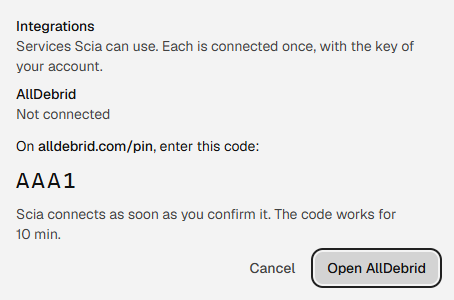
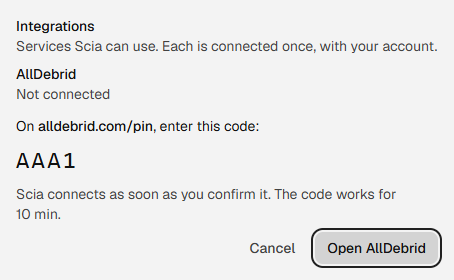
fix: hold the leaving of a code by specs, and say what round 2 changed

diff --git a/apps/renderer/src/features/settings/integrations.test.tsx b/apps/renderer/src/features/settings/integrations.test.tsx
@@ -985,29 +985,48 @@ describe('IntegrationsSection', () => {
       });
     });
 
-    it('takes back the sentence of a page not opened once the code no longer connects', async () => {
-      const user = setUp();
-      withMain();
-      openCodePage.mockRejectedValue(new Error('no code'));
-      listing([notConnected]);
-      vi.spyOn(api, 'startIntegrationCode').mockResolvedValue(given);
-      vi.spyOn(api, 'integrationCode').mockRejectedValue(
-        new ApiError(404, ApiErrorCode.NotFound, 'No code was given.'),
-      );
-      render(<IntegrationsSection open onError={ignore} />);
-      const service = await theService();
-      await user.click(service.getByRole('button', { name: 'Connect with a code' }));
-      await user.click(await service.findByRole('button', { name: 'Open AllDebrid' }));
-      expect(await service.findByRole('alert')).toHaveTextContent('Scia could not open the page.');
-
-      await nextReading();
-
-      await vi.waitFor(() => {
-        expect(service.getByRole('alert')).toHaveTextContent(
-          'This code is no longer valid. Get a new one.',
+    for (const [what, reading] of [
+      [
+        'it expired',
+        () =>
+          vi.spyOn(api, 'integrationCode').mockResolvedValue({
+            ...given,
+            status: 'failed',
+            failure: 'CODE_EXPIRED',
+          }),
+      ],
+      [
+        'the engine no longer knows it',
+        () =>
+          vi
+            .spyOn(api, 'integrationCode')
+            .mockRejectedValue(new ApiError(404, ApiErrorCode.NotFound, 'No code was given.')),
+      ],
+    ] as const) {
+      it(`takes back the sentence of a page not opened once ${what}`, async () => {
+        const user = setUp();
+        withMain();
+        openCodePage.mockRejectedValue(new Error('no code'));
+        listing([notConnected]);
+        vi.spyOn(api, 'startIntegrationCode').mockResolvedValue(given);
+        reading();
+        render(<IntegrationsSection open onError={ignore} />);
+        const service = await theService();
+        await user.click(service.getByRole('button', { name: 'Connect with a code' }));
+        await user.click(await service.findByRole('button', { name: 'Open AllDebrid' }));
+        expect(await service.findByRole('alert')).toHaveTextContent(
+          'Scia could not open the page.',
         );
+
+        await nextReading();
+
+        await vi.waitFor(() => {
+          expect(service.getByRole('alert')).toHaveTextContent(
+            'This code is no longer valid. Get a new one.',
+          );
+        });
       });
-    });
+    }
 
     it('gives the focus to Cancel, which says the code, where nobody can open the page', async () => {
       const user = setUp();
@@ -1021,6 +1040,72 @@ describe('IntegrationsSection', () => {
       const cancel = await service.findByRole('button', { name: 'Cancel' });
       expect(cancel).toHaveFocus();
       expect(cancel).toHaveAccessibleDescription('On alldebrid.com/pin, enter this code: ABCD');
+    });
+
+    it('says nothing of an ask the person left that then fails', async () => {
+      listing([notConnected]);
+      let refuse: (error: unknown) => void = () => undefined;
+      vi.spyOn(api, 'startIntegrationCode').mockImplementation(
+        () =>
+          new Promise((_resolve, reject) => {
+            refuse = reject;
+          }),
+      );
+      vi.spyOn(api, 'cancelIntegrationCode').mockResolvedValue();
+      render(<IntegrationsSection open onError={ignore} />);
+      const service = await theService();
+      await userEvent.click(service.getByRole('button', { name: 'Connect with a code' }));
+      await userEvent.click(service.getByRole('button', { name: 'Use an API key' }));
+
+      await act(async () => {
+        refuse(new ApiError(409, ApiErrorCode.Conflict, 'The wait for this code was ended.'));
+        await Promise.resolve();
+      });
+
+      expect(service.queryByRole('alert')).not.toBeInTheDocument();
+    });
+
+    it('keeps saying a code is coming when an ask the person left ends after a new one began', async () => {
+      listing([notConnected]);
+      const answers: ((code: IntegrationCode) => void)[] = [];
+      vi.spyOn(api, 'startIntegrationCode').mockImplementation(
+        () =>
+          new Promise((resolve) => {
+            answers.push(resolve);
+          }),
+      );
+      vi.spyOn(api, 'cancelIntegrationCode').mockResolvedValue();
+      render(<IntegrationsSection open onError={ignore} />);
+      const service = await theService();
+      await userEvent.click(service.getByRole('button', { name: 'Connect with a code' }));
+      await userEvent.click(service.getByRole('button', { name: 'Use an API key' }));
+      await userEvent.click(service.getByRole('button', { name: 'Cancel' }));
+      await userEvent.click(service.getByRole('button', { name: 'Connect with a code' }));
+
+      await act(async () => {
+        answers[0]?.(given);
+        await Promise.resolve();
+      });
+
+      expect(service.getByRole('button', { name: 'Getting a code…' })).toHaveAttribute(
+        'aria-disabled',
+        'true',
+      );
+    });
+
+    it('says a code works for a minute at least, when it has less left', async () => {
+      const user = setUp();
+      listing([notConnected]);
+      vi.spyOn(api, 'startIntegrationCode').mockResolvedValue({
+        ...given,
+        expiresAt: new Date(Date.now() + 20_000).toISOString(),
+      });
+      render(<IntegrationsSection open onError={ignore} />);
+      const service = await theService();
+
+      await user.click(service.getByRole('button', { name: 'Connect with a code' }));
+
+      expect(await service.findByText(/The code works for 1\smin\.$/)).toBeInTheDocument();
     });
 
     it('says how long each new code works, not the first one', async () => {

diff --git a/apps/server/src/integrations.int.test.ts b/apps/server/src/integrations.int.test.ts
@@ -537,10 +537,12 @@ describe('Integrations', () => {
     it('waits only for the last of two codes asked for together: the first is given up', async () => {
       const integrations = await open();
 
-      const first = integrations.startCode(IntegrationId.AllDebrid);
+      const first = integrations
+        .startCode(IntegrationId.AllDebrid)
+        .catch((error: unknown) => error);
       const second = await integrations.startCode(IntegrationId.AllDebrid);
 
-      await expect(first).rejects.toBeInstanceOf(CodeConflictError);
+      expect(await first).toBeInstanceOf(CodeConflictError);
       expect(service.requests.filter((request) => request.url === '/v4.1/pin/get')).toHaveLength(2);
       await until(() => checksOf(lastCheck()).length >= 2);
       expect(integrations.code(IntegrationId.AllDebrid)?.code).toBe(second.code);
@@ -580,6 +582,40 @@ describe('Integrations', () => {
       expect(await integrations.list()).toEqual([
         { id: 'alldebrid', connected: true, account: ada, failure: null },
       ]);
+    });
+
+    it('connects nothing for a code whose wait ended while its key waited its turn', async () => {
+      const kept = new MemoryVault();
+      let release = () => undefined as unknown;
+      // A disconnection whose system is slow: the changes after it wait their turn.
+      const slow: KeyVault = {
+        read: (name) => kept.read(name),
+        write: (name, key) => kept.write(name, key),
+        remove: (name) =>
+          new Promise((done) => {
+            release = () => {
+              done(kept.remove(name));
+            };
+          }),
+      };
+      const integrations = await open(slow);
+      const { code } = await integrations.startCode(IntegrationId.AllDebrid);
+      const busy = integrations.disconnect(IntegrationId.AllDebrid);
+      service.confirmCode(code, KEY);
+      await until(() => service.keysGiven > 0);
+      // The answer with the key reaches the engine, which then waits behind the disconnection.
+      await until(() => service.requests.at(-1)?.url === '/v4/pin/check');
+
+      integrations.cancelCode(IntegrationId.AllDebrid);
+      release();
+      await busy;
+      // A key the service refuses, sent after: once it is answered, what waited before it has run.
+      await expect(
+        integrations.connect(IntegrationId.AllDebrid, 'nobody-key-00000000000000'),
+      ).rejects.toBeInstanceOf(ServiceError);
+
+      expect(await kept.read(IntegrationId.AllDebrid)).toBeUndefined();
+      expect(await integrations.list()).toEqual([notConnected]);
     });
 
     it('gives no code while a service is connected: a confirmed code would replace its key', async () => {

diff --git a/apps/renderer/src/lib/messages.ts b/apps/renderer/src/lib/messages.ts
@@ -55,6 +55,9 @@ export function connectFailureMessage(error: unknown, id: IntegrationId): string
 
 // Said when Settings asked for a code to confirm on the service's site and got none.
 const CODE_NOT_GIVEN: Readonly<Record<string, (service: string) => string>> = {
+  // A service connected meanwhile, or another code asked for: whatever it was, none came.
+  [ApiErrorCode.Conflict]: (service) =>
+    `Scia could not get a code from ${service}. Try again in a moment.`,
   // Not answering, under maintenance, or answering what Scia does not understand.
   [ApiErrorCode.Unavailable]: (service) =>
     `Scia could not get a code from ${service}. Try again in a moment.`,
@@ -72,7 +75,7 @@ const CODE_FAILED: Readonly<Record<IntegrationCodeFailure, (service: string) => 
   // Its time ran out, or the service, or the engine, no longer knows it.
   [IntegrationCodeFailure.Expired]: () => 'This code is no longer valid. Get a new one.',
   [IntegrationCodeFailure.KeyRefused]: (service) =>
-    `${service} did not accept the key it gave for this code. Get a new code, then try again.`,
+    `${service} did not accept the key it gave for this code. Get a new code.`,
   [IntegrationCodeFailure.KeyBlocked]: (service) =>
     `${service} is blocking the key from here. If ${service} emailed you about a new sign-in, confirm it; otherwise check your network. Then get a new code.`,
   [IntegrationCodeFailure.AccountBanned]: (service) => `${service} says this account is banned.`,
@@ -81,7 +84,7 @@ const CODE_FAILED: Readonly<Record<IntegrationCodeFailure, (service: string) => 
   // The account could not be asked about once the code was confirmed, or something Scia does
   // not understand: what is true of all of them is that nothing was connected.
   [IntegrationCodeFailure.Unavailable]: (service) =>
-    `Scia could not finish connecting with ${service}. Get a new code, then try again.`,
+    `Scia could not finish connecting with ${service}. Get a new code.`,
   [IntegrationCodeFailure.KeyNotKept]: () =>
     'Scia could not keep the key safely on this computer. Nothing was connected.',
 };

diff --git a/apps/server/src/testing/alldebrid-server.ts b/apps/server/src/testing/alldebrid-server.ts
@@ -135,6 +135,8 @@ export interface AllDebridServer {
   misbehave(how: Misbehaviour | undefined): void;
   // What the person does on the service's site: the code is confirmed, and gives this key.
   confirmCode(code: string, apiKey: string): void;
+  // How many times it has answered a confirmed code with its key.
+  readonly keysGiven: number;
   close(): Promise<void>;
 }
 
@@ -206,6 +208,7 @@ export async function startAllDebridServer(
   const preparing = new Map<number, { left: number; readonly link: UnlockableLink }>();
   // The codes given, by the check that goes with each.
   const codes = new Map<string, GivenCode>();
+  let keysGiven = 0;
 
   function misbehaves(response: ServerResponse): boolean {
     if (misbehaviour === undefined) return false;
@@ -340,6 +343,7 @@ export async function startAllDebridServer(
       refuse(response, 200, 'PIN_EXPIRED');
       return;
     }
+    if (given.apiKey !== undefined) keysGiven += 1;
     succeed(
       response,
       given.apiKey === undefined
@@ -413,6 +417,9 @@ export async function startAllDebridServer(
     misbehave: (how) => {
       misbehaviour = how;
       misbehaved = 0;
+    },
+    get keysGiven() {
+      return keysGiven;
     },
     confirmCode: (code, apiKey) => {
       const given = [...codes.values()].find((each) => each.pin === code);

diff --git a/apps/renderer/src/features/settings/integrations.tsx b/apps/renderer/src/features/settings/integrations.tsx
@@ -62,7 +62,7 @@ export function IntegrationsSection({ open, onError }: IntegrationsSectionProps)
           Integrations
         </h3>
         <p className="text-sm text-muted-foreground">
-          Services Scia can use. Each is connected once, with the key of your account.
+          Services Scia can use. Each is connected once, with your account.
         </p>
       </div>
       <ul className="flex flex-col gap-2">

diff --git a/.claude/gotchas.md b/.claude/gotchas.md
@@ -44,13 +44,13 @@ Read the groups your change touches before a push. Add a `→` entry in the same
 
 - → A bound in a timing spec is set against what the code does without the thing held, not against what it does with it: "a pause under a limit takes less than a second" passed with the wait deaf to the pause, because one read at the floor is a second and the unguarded pause took 980 ms. Make what is owed several times the bound, and see the spec fail with the guard taken out (#44).
 - → A spec written after its code is seen failing by taking the code's line away, one at a time — also the ones that "obviously" hold: a read made "when the engine is reached, and again when it comes back" stayed green with the read made at mount only, because the spec's connection never changed (#44; #51, again). A spec whose comment names two things has a case that fails for each: "emoji where the beginning is cut, and where the end that is kept begins" held the beginning only, because in every name ten units from the end fell between two characters (#51, a third time). A guard reached from several places is taken away at each of them: the late read of Settings was held at the opening and at a change, and not after a folder was chosen, where every spec stayed green without it (#52). #131 again: the busy flag of the clipboard's reading was cleared after a read and at a turn off, and only the first had a spec.
-- → A list of lines taken away names the lines, and a line no road of the specs reaches is not among the "caught": the plan said "each of the service's codes unmapped" and "the account asked at every listing", and two of those lines could be deleted with every spec green — a code the simulated service is never made to answer, and a line only an engine that read its key from the vault runs. Take the line away on each road that reaches it; a line no road reaches is taken out of the code (#53: the slips of #32 and #44, both again; #65 again). #86 again: "every line that decides something" was claimed of an encoder where the directory's height byte, the planes, the mask's byte and the rule "a bitmap below 256" could each go with every spec green. Take them away with a script that removes one line, runs the specs and puts it back, and count from what it printed. #100 again: the author's script took away what was easy to name, and the tech lead's found the two lines that keep yt-dlp from going back to an older signed build — "newer than the one in use", and a date read only from what the signature covers — each removable with every spec green. A guard's mutant is the attack it stops, not its deletion: `!==` for "newer", the unsigned part read for the date. And a fix in an adapter is taken away where it is used too: `main.ts` calling the old `open` kept 393 specs green.
+- → A list of lines taken away names the lines, and a line no road of the specs reaches is not among the "caught": the plan said "each of the service's codes unmapped" and "the account asked at every listing", and two of those lines could be deleted with every spec green — a code the simulated service is never made to answer, and a line only an engine that read its key from the vault runs. Take the line away on each road that reaches it; a line no road reaches is taken out of the code (#53: the slips of #32 and #44, both again; #65 again). #86 again: "every line that decides something" was claimed of an encoder where the directory's height byte, the planes, the mask's byte and the rule "a bitmap below 256" could each go with every spec green. Take them away with a script that removes one line, runs the specs and puts it back, and count from what it printed. #100 again: the author's script took away what was easy to name, and the tech lead's found the two lines that keep yt-dlp from going back to an older signed build — "newer than the one in use", and a date read only from what the signature covers — each removable with every spec green. A guard's mutant is the attack it stops, not its deletion: `!==` for "newer", the unsigned part read for the date. And a fix in an adapter is taken away where it is used too: `main.ts` calling the old `open` kept 393 specs green. #136 again: a code's cancel at a disconnection was taken out as "no road reaches it" because the page offers none — and the API did (`POST /code` while connected, then `DELETE`). A road is any caller of the route, not the one screen; the fix there was to close the road (a code is refused while a service is connected), not to trust that nobody takes it.
 - → The numbers of a run are read from that run's record, and a body that tells of several runs says which run each number belongs to: "two requests in the whole run" was the count of the last run, beside sentences from an earlier one that had made four (#53: #44 again).
 - → A number in a spec's comment, and in the PR body that quotes it, is counted from the run, not from the setting: eight connections were configured, and a file of four megabytes made four (#44).
 
 - → Two asks of the same thing answer in the order they like. Settings read the engine at every opening and kept whatever came back: a change made while that read was on its way was undone on screen when the read answered after it — the page went back to the theme of before, with the engine keeping the new one. No person is that fast; a harness on a window the system had put in the background was. An answer is kept only when nothing was asked after it, and the spec holds the late answer back by hand (#52).
 
-- → A way back is not offered beside something that cannot be taken back: "Cancel" stayed pressable while a key was being checked, the key was kept all the same, and a refusal that came back was drawn under a row with no field (#53). Try every control of a form while its request is on its way.
+- → A way back is not offered beside something that cannot be taken back: "Cancel" stayed pressable while a key was being checked, the key was kept all the same, and a refusal that came back was drawn under a row with no field (#53). Try every control of a form while its request is on its way. #136 again: a code asked for kept coming after Cancel, after "Use an API key" and after Settings closed, replaced the key's field, and was waited for ten minutes by an engine whose cancel had arrived before the code existed — on the page and in the engine. Every ask carries its turn; what answers an ask that is no longer the last is dropped, and told to forget what it brought.
 
 - → Whether to hand on a focus is decided when the control leaves, from where the focus is then, never from a flag set at the press: "Start all" set one at its press and kept it through a refused request, or a new ready row arriving with it, and a later, unrelated leave pulled the focus from a row's own button to the filters (#131).
 - → A reading that marks a baseline — "what was there when it started" — is tried with that reading refused, answered empty, and answered late by a turn before an off and on. The clipboard's reading took a link copied before the switch was turned on in all three ways, with every spec green; and Electron 44 answers `''`, not a rejection, for a clipboard it cannot open (#131). The baseline belongs to its turn, and nothing is offered until a read of that turn has found it.
@@ -80,7 +80,7 @@ Read the groups your change touches before a push. Add a `→` entry in the same
 - → A list of values is tried at both ends, and over the transport people use. Every run of the speed limit sat between 256 KB/s and 2 MB/s, over plain http; at 25 MB/s a read's turn is two milliseconds, a timer under sixteen takes sixteen on Windows, and a wait that ended late was lost for good: a download got a third of its limit, on every head of the PR, and less over HTTPS, where a read is a quarter the size — until the third round measured it (#44).
 - → A guard that is taken away is searched for everything else it was guarding. The idle timer that left the socket was also what ended a redirect's drain and an answer nobody read (#44).
 - → A word from outside is not looked up in a plain object: `FAILURE_OF[code]` found `constructor` and `toString`, which every object has, and a service's code of that name became a refusal with no code, where the rule says "a code Scia does not know". A `Map`, or `Object.hasOwn` (#53).
-- → A number from outside is bounded before it becomes a date, and bounded by what the contract on the other side takes: `new Date(seconds * 1000).toISOString()` throws for a number no calendar holds, and a throw that is not the adapter's own error crosses the API as a 500; bounded at the last second a `Date` holds, it wrote `+010000-…` for the years past 9999, which the page's `z.iso.datetime()` refuses — a service connected, and a page that could neither say so nor disconnect it (#53, twice).
+- → A number from outside is bounded before it becomes a date, and bounded by what the contract on the other side takes: `new Date(seconds * 1000).toISOString()` throws for a number no calendar holds, and a throw that is not the adapter's own error crosses the API as a 500; bounded at the last second a `Date` holds, it wrote `+010000-…` for the years past 9999, which the page's `z.iso.datetime()` refuses — a service connected, and a page that could neither say so nor disconnect it (#53, twice). #136 again: a code's `expires_in` became `expiresAt` unbounded, a 500 for one lifetime and a date the contract refuses for another.
 - → Two changes of one thing kept outside the process are made one at a time, and one that was given up on is undone: a write to the vault that main finished after the engine stopped waiting left a key the person had been told was not kept (#53; #65 again, twice — the second time the kept list of hosts, written while a disconnection removed it: its write now waits its turn with connecting and disconnecting).
 - → Something the engine can do without is opened so that it never fails the engine's start: the yt-dlp updater, awaited before the engine listened, threw on a leftover build a running yt-dlp held, and the engine exited at every restart until Scia gave up — no download at all for a housekeeping step (#100). Each step that can fail is caught and logged, and the piece as a whole falls back to running without it, with a spec in which it cannot open and an E2E spec in which the app still starts.
 - → A listener added to a signal that has already aborted never fires: `addEventListener('abort')` is not told of the past. A wait that begins after a stop — the stop landing during an `await` just before — waits for whatever else it listens to, and a shutdown hung behind it (#100). A wait checks `signal.aborted` before it listens, with a spec in which the stop comes first.

diff --git a/apps/server/CLAUDE.md b/apps/server/CLAUDE.md
@@ -55,7 +55,7 @@ transmuxer         what the engine uses of mux.js, typed: MPEG-TS into fragmente
 - **The download folder has a route of its own** (`PUT /settings/download-directory`, the app's token only): main names it after the person chose it in the system's dialog. It is not among the settings the page patches, so no type lets the page send a path. The engine takes an absolute path, keeps it as the system names it (`resolve`), makes the folder, and refuses one it cannot make or write to, leaving the settings as they were. **Writing is proven by writing** — a file of Scia's own made in the folder and removed — never by asking the system: on Windows `access(folder, W_OK)` says yes for every folder that exists. A download keeps the folder it was added with.
 - **The key of a service is in the engine's memory and in the vault, and nowhere else** ([ADR 0004](../../docs/adr/0004-the-key-of-a-service.md)): never in `state.json`, in a log, in an error, in an address, or in an answer of the API — no route says a key back. `KeyVault` is the port: `ParentVault` asks main, which keeps the key sealed by the system; `MemoryVault` is what plain Node has, and keeps it as long as the process. A key is kept only after its service accepted it, and leaves the vault before it is forgotten: one that stayed would connect Scia again at its next start. A spec that says "never in the log" reads every line that was logged.
 - **The routes of a service are for the app's token alone**: `GET /integrations`, `PUT /integrations/:id` with `{ apiKey }`, `DELETE /integrations/:id`, and the three of a code (below). `400 INVALID_REQUEST` for what cannot be a key, before the service is asked; `422` with the service's refusal (`KEY_REFUSED`, `KEY_BLOCKED`, `ACCOUNT_BANNED`, `NETWORK_REFUSED` — AllDebrid's `NO_SERVER`, a server or a VPN it does not serve); `502 SERVICE_UNAVAILABLE` when it could not be asked; `500 KEY_NOT_KEPT` when the system will not keep the key; `404` for a service Scia does not know; `204` for a disconnection. Connecting and disconnecting happen one at a time, and a write that was given up on is undone: the vault is put back as it was. A listing waits two seconds at most for the service to say whose account it is, then answers what it knows.
-- **A key also arrives by a code the person confirms on the service's site** ([ADR 0013](../../docs/adr/0013-a-key-that-arrives-by-a-code.md); `Integrations.startCode`, the owner's decision on #136). `POST /integrations/:id/code` asks AllDebrid for a code with no key (`GET /v4.1/pin/get`) and answers `201` with the code, its page, when it expires and its `status` (`502`/`422` as for a key, when the service gives none); `GET` says what became of the code given last (`404` with none); `DELETE` ends the wait (`204`). The engine asks `POST /v4/pin/check` every five seconds, on a timer that never keeps it from ending; a service that cannot be asked for a moment is asked at the next turn; the code fails `CODE_EXPIRED` when its time runs out or the service no longer knows it (`PIN_EXPIRED`, `PIN_INVALID` — an answer to a code alone, never a download's failure: `CodeExpiredError`). The key a confirmed code gives is connected through the pasted key's own step, one at a time with the others; the `check` token never leaves the engine's memory. One code waits at a time: a new code, a pasted key, a disconnection and `DELETE` end the wait. A code's page is taken only on the service's own site (`isServiceSite` in `@scia/contracts`).
+- **A key also arrives by a code the person confirms on the service's site** ([ADR 0013](../../docs/adr/0013-a-key-that-arrives-by-a-code.md); `Integrations.startCode`, the owner's decision on #136). `POST /integrations/:id/code` asks AllDebrid for a code with no key (`GET /v4.1/pin/get`) and answers `201` with the code, its page, when it expires and its `status` (`502`/`422` as for a key, when the service gives none; `409 CONFLICT` while a service is connected, and for a code whose wait was ended while it was given); `GET` says what became of the code given last (`404` with none); `DELETE` ends the wait (`204`). The engine asks `POST /v4/pin/check` every five seconds, for the lifetime the service gives and ten minutes at most (`CODE_LIMIT_SECONDS`), on a timer that does not hold the engine open (`ref: false`, held by no spec); a service that cannot be asked for a moment is asked at the next turn; the code fails `CODE_EXPIRED` when its time runs out or the service no longer knows it (`PIN_EXPIRED`, `PIN_INVALID` — an answer to a code alone, never a download's failure: `CodeExpiredError`). The key a confirmed code gives is connected through the pasted key's own step, one at a time with the others; the `check` token never leaves the engine's memory. One code waits at a time: a new code, a pasted key and `DELETE` end the wait, and move it on a turn, so that a code the service gives after it is not kept; a key a confirmed code gives that waits its turn behind another change is not connected once the wait has ended. A code's page is taken only on the service's own site (`isServiceSite` in `@scia/contracts`).
 - **A service is spoken to at one address, and its body is what it said.** `config.alldebridApi` is AllDebrid's own, replaced only by an address on this computer (`SCIA_ALLDEBRID_API`): the engine does not start with any other. A redirect is not followed. Whether a request succeeded is read in the body — AllDebrid's documentation says both that a refused key comes with a 401 and that it no longer does — and a code that is no answer to what was asked (a link's refusal to a question about the account), a code Scia does not know (looked up in a `Map`: a code is a word from outside), an answer that is not the service's envelope, a date no calendar holds and no answer in time are all `SERVICE_UNAVAILABLE`: nothing is said of the key that the service did not say. Read the service's documentation again before changing its client: do not rely on memory for its endpoints or its codes.
 - **A hoster's link is unlocked at the start of its download's run, through `LinkResolver`** ([ADR 0005](../../docs/adr/0005-a-service-resolves-a-link.md); `Integrations` is the adapter, `DownloadManager.#address` the step). What holds:
   - The download is known by the link that was added (`url`). `via` is the service it goes through; `unlockedUrl` is the direct link the service gave — in `state.json`, **never in an answer of the API and never in a log**. A spec reads both.

diff --git a/apps/renderer/CLAUDE.md b/apps/renderer/CLAUDE.md
@@ -33,8 +33,8 @@ Anyone who downloads files: they paste a link and want to forget about it. The w
 - **Forgiving.** A finished download leaves the list at one press (the file stays), and so does a ready one, taken from the clipboard, which has nothing on the disk; it starts at its "Start", and "Start all" is beside the filters while any row is ready. Unfinished bytes are thrown away only after a second press in place, and a downloaded program is run only after a second press too (`components/confirm-button.tsx`). The button turns, in place, into the word of what it is about to do, and stays one element, so the focus stays on it. A press is one press however it is repeated: while the button asks, no later click of a burst is the answer, and neither are the repeats of Enter held down — of Enter alone, a held Tab walks on. When it has nothing to ask, a later click is refused only by the button that saw the one before it, so quick presses clear a list. A failed add never clears what was typed.
 - **Keyboard-complete.** Paste anywhere adds the links; everything pressable is a `button`. A shortcut of the pointer (a double click on a finished row is one press of its "Open": it opens a file, and makes a program's button ask — it moves the focus there, and never answers the question) only repeats a button that is there.
 - **A key is typed once and kept nowhere in the page** (`features/settings/integrations.tsx`). Its field hides it; the engine checks it and keeps it ([ADR 0004](../../docs/adr/0004-the-key-of-a-service.md)); the page forgets it when it is taken, at Cancel and when Settings closes, and no answer of the API carries it back. What the service or the system said of it is told by the field — which is marked invalid and described by it — each sentence true of every cause its code covers (`connectFailureMessage`), and never clears what was typed. While the key is being checked "Cancel" does nothing, and says so (`aria-disabled`): the check cannot be taken back, and a way back that is not one is not offered.
-- **A code to confirm on the service's site is the main way to connect a service, a key the other** (the owner, #136; [ADR 0013](../../docs/adr/0013-a-key-that-arrives-by-a-code.md)). "Connect with a code" shows the code, where it is confirmed as a person would type it (`alldebrid.com/pin`) and how long it works — said once, not ticking — and "Open AllDebrid", which asks main to open that page; with no main, in a plain browser, the place is enough. The page reads what became of the code every two seconds while it waits, and stops when it connected or failed; a code that connected nothing says why and offers "Get a new code". Cancel, and Settings closing, tell the engine to forget it. Nothing of the key reaches the page.
-- **When a control leaves the page under the focus, the focus goes to what takes its place**: from the key's field, or from the code, to "Disconnect" once connected; from the code to "Open AllDebrid" when it arrives, and to "Get a new code" when it fails; to "Use an API key" after the key's Cancel, to "Connect with a code" after the code's Cancel and after disconnecting. A focus left on nothing starts again from the top of the dialog. Only a focus that was on what left is handed on: one that went elsewhere meanwhile stays where it is.
+- **A code to confirm on the service's site is the main way to connect a service, a key the other** (the owner, #136; [ADR 0013](../../docs/adr/0013-a-key-that-arrives-by-a-code.md)). "Connect with a code" shows the code, where it is confirmed as a person would type it (`alldebrid.com/pin`) and how long it works — said once, not ticking, a minute at least — and "Open AllDebrid", which asks main to open that page and is described by the code; with no main, in a plain browser, the place is enough, and Cancel takes the focus. A live region always in the row says the code and that Scia waits, or that a code is being asked for; "Get a new code" says "Getting a code…" and does nothing meanwhile, as "Connect with a code" does. The page reads what became of the code every two seconds while it waits, and stops when it connected or failed; a code that connected nothing says why and offers "Get a new code". Leaving the code — Cancel, "Use an API key", Settings closing — tells the engine to forget it, also while it is still being asked for: every ask carries its turn, and an answer to an ask that is no longer the last is not shown, and its code is forgotten too. A failure says the one that is news: a code that no longer connects takes back a sentence about a page not opened, and "no code given" replaces what the code before said. Nothing of the key reaches the page.
+- **When a control leaves the page under the focus, the focus goes to what takes its place**: from the key's field, or from the code, to "Disconnect" once connected; from the code to "Open AllDebrid" when it arrives (to Cancel with no main), and stays on that button as it becomes "Get a new code" when the code fails — React keeps the node; to "Use an API key" after the key's Cancel, to "Connect with a code" after the code's Cancel and after disconnecting. A focus left on nothing starts again from the top of the dialog. Only a focus that was on what left is handed on: one that went elsewhere meanwhile stays where it is.
 - **A capture in `docs/design/` shows the app as it is**: the PR that changes what one shows retakes it, from the real app (`docs/design/README.md`).
 - **The page never names a path.** It names a download by id; main asks the engine where the file is (`lib/bridge.ts`). It names no folder either: to change where downloads go it asks main, which shows the system's dialog and tells the engine, and then it reads the settings again — whatever main answered, and also when main failed. An answer from main is checked like any answer from outside (`isFolderChange`).
 - **What the engine keeps is learned from the last ask.** Settings reads at every opening, at every change, and after a folder was chosen; an answer is kept only when nothing was asked after it (`learn` in `features/settings/settings-dialog.tsx`), so a read asked before a change never undoes it on screen.

diff --git a/docs/product/roadmap.md b/docs/product/roadmap.md
@@ -53,7 +53,7 @@ The first stable release waits for every line below but the connection by a code
 - A link that expires during a long download is unlocked again without losing the bytes. A PR of its own, after #48.
 - A link that unlocks into several files shows the list before downloading. A PR of its own, after #48.
 - A hoster link without a connected service says so, and says what to do (#49): with no service connected, Scia asks AllDebrid for the public list of its file hosts — no key, nothing of the link — and a link on one of those domains, or its `www.`, says "This link is on a file host: Scia downloads links like this through AllDebrid. Connect AllDebrid in Settings, then try again." instead of saving the host's page as the file (the owner, 20 November 2026; [ADR 0006](../adr/0006-a-file-host-without-a-service.md)). **Written, covered by specs, and seen in the real app on Windows against a simulated service** — with no service connected, a file host's link said so on its row and nothing was written to the folder; a direct link pasted beside it downloaded as before; the one request the service received was the public list, with no key; once connected, "Retry" unlocked the link and the file arrived byte for byte, compared with what its host sent (`docs/design/needs-a-service.png`). AllDebrid's real public list was read by a plain request outside the app, not by the app. Not seen: the real list in the app; a list that cannot be read while a link is added, one read again after six hours, a service that never answers, and a key connected while the list is read (specs only); Settings, Connect and Retry by keys (pressed with the pointer); a hand on the keys; Linux; the packaged app.
-- AllDebrid connected by a code confirmed on its site (#136), beside the pasted key: "Connect with a code" becomes the main way in Settings, and pasting a key stays as the other (the owner, 21 November 2026). AllDebrid's PIN flow: Scia shows a code, opens AllDebrid's page where the person confirms it, and receives the key, kept as a pasted one is ([ADR 0004](../adr/0004-the-key-of-a-service.md), which had named this flow "not now"; [ADR 0013](../adr/0013-a-key-that-arrives-by-a-code.md)). Built first, before magnets. **Written, covered by specs, and seen in the real app on Windows against a simulated service** — "Connect with a code" pressed by keys showed the code, `alldebrid.com/pin` and "works for 10 min", and gave the focus to "Open AllDebrid"; its press had main ask the engine and call the system to open `https://alldebrid.com/pin/?pin=<code>`, the one page asked of the service having carried no key; the code confirmed at the simulated service connected Scia within five seconds, with the account's name, and the focus on "Disconnect"; the key sealed in the profile's `keys/`, in no log and not in `state.json` (`docs/design/connect-with-a-code.png`). Not seen: AllDebrid's real page and a real account, which are the owner's to try; the person's browser opened by the system (the run wrote down what main asked it to open); a code that expires, that AllDebrid refuses, or whose key the system will not keep, Cancel, and Settings closed while a code waits (specs only); a hand on the keys; Linux; the packaged app. The routes each new piece adds, in Scia's client and in its simulated service, have to be checked against AllDebrid's documentation, not against the older OpenAPI specification its tools page offers (#136).
+- AllDebrid connected by a code confirmed on its site (#136), beside the pasted key: "Connect with a code" becomes the main way in Settings, and pasting a key stays as the other (the owner, 21 November 2026). AllDebrid's PIN flow: Scia shows a code, opens AllDebrid's page where the person confirms it, and receives the key, kept as a pasted one is ([ADR 0004](../adr/0004-the-key-of-a-service.md), which had named this flow "not now"; [ADR 0013](../adr/0013-a-key-that-arrives-by-a-code.md)). Built first, before magnets. **Written, covered by specs, and seen in the real app on Windows against a simulated service** — "Connect with a code", given the focus by the harness and pressed with Enter, showed the code, `alldebrid.com/pin` and "works for 10 min", and gave the focus to "Open AllDebrid"; its press had main ask the engine and call the system to open `https://alldebrid.com/pin/?pin=<code>`, the one page asked of the service having carried no key; the code confirmed at the simulated service connected Scia 4.9 s later — the engine asks every five seconds, the page every two, with the account's name, and the focus on "Disconnect"; the key sealed in the profile's `keys/`, in no log and not in `state.json` (`docs/design/connect-with-a-code.png`). Not seen: AllDebrid's real page and a real account, which are the owner's to try; the person's browser opened by the system (the run wrote down what main asked it to open); a code that expires, that AllDebrid refuses, or whose key the system will not keep, Cancel, and Settings closed while a code waits or is still coming (specs only); a code whose page the person leaves unconfirmed when Settings closes is forgotten, and confirming it afterwards connects nothing — said nowhere on screen (#146); a hand on the keys; Linux; the packaged app. The routes each new piece adds, in Scia's client and in its simulated service, have to be checked against AllDebrid's documentation, not against the older OpenAPI specification its tools page offers (#136).
 - Magnets through AllDebrid, in three pieces after the code, in this order (the owner, 21 November 2026). None started:
   - A magnet pasted into Scia is added to AllDebrid at once, and its files, once AllDebrid has them, download by themselves in a folder named after the magnet, its sub-folders rebuilt as the magnet has them — as JDownloader rebuilds them from what AllDebrid gives (#137).
   - The magnets of the account — also those added on AllDebrid's site or by other applications — in a side panel that folds away, there only while AllDebrid is connected and closed by default; the list of downloads stays the one main screen (#138).

diff --git a/docs/adr/0013-a-key-that-arrives-by-a-code.md b/docs/adr/0013-a-key-that-arrives-by-a-code.md
@@ -23,17 +23,17 @@ AllDebrid's tools page also offers an OpenAPI specification (https://docs.alldeb
 ## Decision
 
 1. **The engine asks for the code and waits for it.** It is the only process that speaks to the service, as for every other request (ADR 0004, point 1).
-   - `POST /api/v1/integrations/:id/code` asks AllDebrid for a code. It answers what the person needs (`IntegrationCode` in `@scia/contracts`): the code, the page where it is confirmed, when it expires, and what became of it (`waiting`, `connected` or `failed`, with the failure).
-   - From then on, the engine asks the service every five seconds whether the code was confirmed.
+   - `POST /api/v1/integrations/:id/code` asks AllDebrid for a code. While a service is connected it gives none (`409 CONFLICT`): a confirmed code would replace that key, perhaps with another account's. It answers what the person needs (`IntegrationCode` in `@scia/contracts`): the code, the page where it is confirmed, when it expires, and what became of it (`waiting`, `connected` or `failed`, with the failure).
+   - From then on, the engine asks the service every five seconds whether the code was confirmed, for as long as the service says the code lasts, and ten minutes at most: a lifetime from outside becomes a date.
    - `GET /api/v1/integrations/:id/code` says what became of the code given last. The page reads it every two seconds while it shows a code.
    - `DELETE /api/v1/integrations/:id/code` ends the wait.
    - These routes take the app's token only (ADR 0002).
 2. **The key a confirmed code gives is a pasted key.** It goes through `Integrations.connect`'s own step: the service is asked whose account it is, the key is kept sealed by main (ADR 0004, point 2), and connecting happens one at a time with disconnecting. A key the service refuses, or the system will not keep, connects nothing, and the code says why. The `check` token gives the key: it stays in the engine's memory, never in an answer, a log or `state.json`. The key itself crosses no route.
-3. **Only one code waits at a time.** Each of these ends the wait for the code before it: a new code, a pasted key, a disconnection, Cancel, and Settings closing.
+3. **Only one code waits at a time.** Each of these ends the wait for the code before it: a new code, a pasted key, Cancel, and Settings closing. Each moves the wait on a turn, in the engine and in the page: a code the service gives after its wait was ended — while it was being asked for — is not kept, its request answers `409 CONFLICT`, and the page shows nothing of it and tells the engine to forget whatever it brought.
    - A code whose time has run out, or that the service no longer knows, is `CODE_EXPIRED` (`CodeFailure` in `@scia/core`): "Get a new code" asks again.
    - A service that cannot be asked for a moment does not end the wait. The next turn asks again, until the code expires.
-   - The wait never keeps the engine from ending.
-4. **Main opens the page; the page names only the service.** `window.scia.openCodePage(id)` is a member of the bridge. Main asks the engine for the code's page (`engine/integration-code.ts`) and opens it with `shell.openExternal`. It never opens an address that comes from the page (`apps/desktop/CLAUDE.md`).
+   - The wait's timer does not keep the engine running (`ref: false`) — read in the code, held by no spec.
+4. **Main opens the page; the page names only the service.** `window.scia.openCodePage(id)` is a member of the bridge. Main asks the engine for the code's page (`engine/integration-code.ts`) and opens it with `shell.openExternal`. It never opens an address that comes from the page (`apps/desktop/CLAUDE.md`), and it hands the system the address as a browser writes it (`new URL(url).href`), not the text as it came.
 5. **A page is opened only on the service's own site.** The page must be on `alldebrid.com` or one of its names, over https, with no one before the host and no port after it (`isServiceSite` in `@scia/contracts`). The engine refuses a code whose page is elsewhere as an answer it does not understand. Main checks again before it opens anything: an address the engine was brought is not opened as it stands.
 6. **The page says where the code is confirmed.** It shows the site and the page as a person would type them (`alldebrid.com/pin`), and how long the code works. So the code can also be confirmed on another device, and in a plain browser during development, where there is no main to open anything.
 
